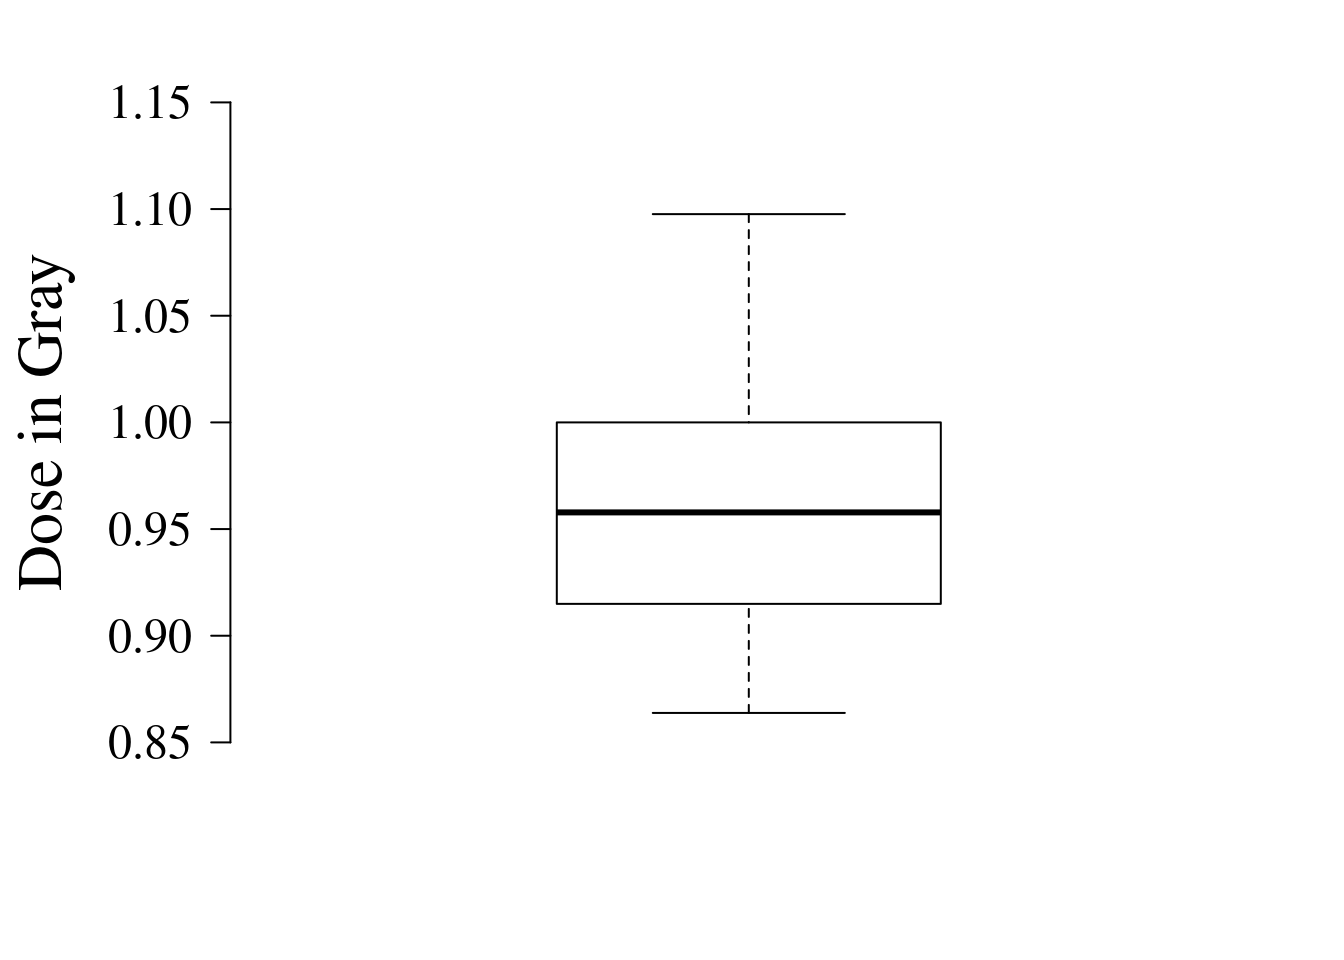
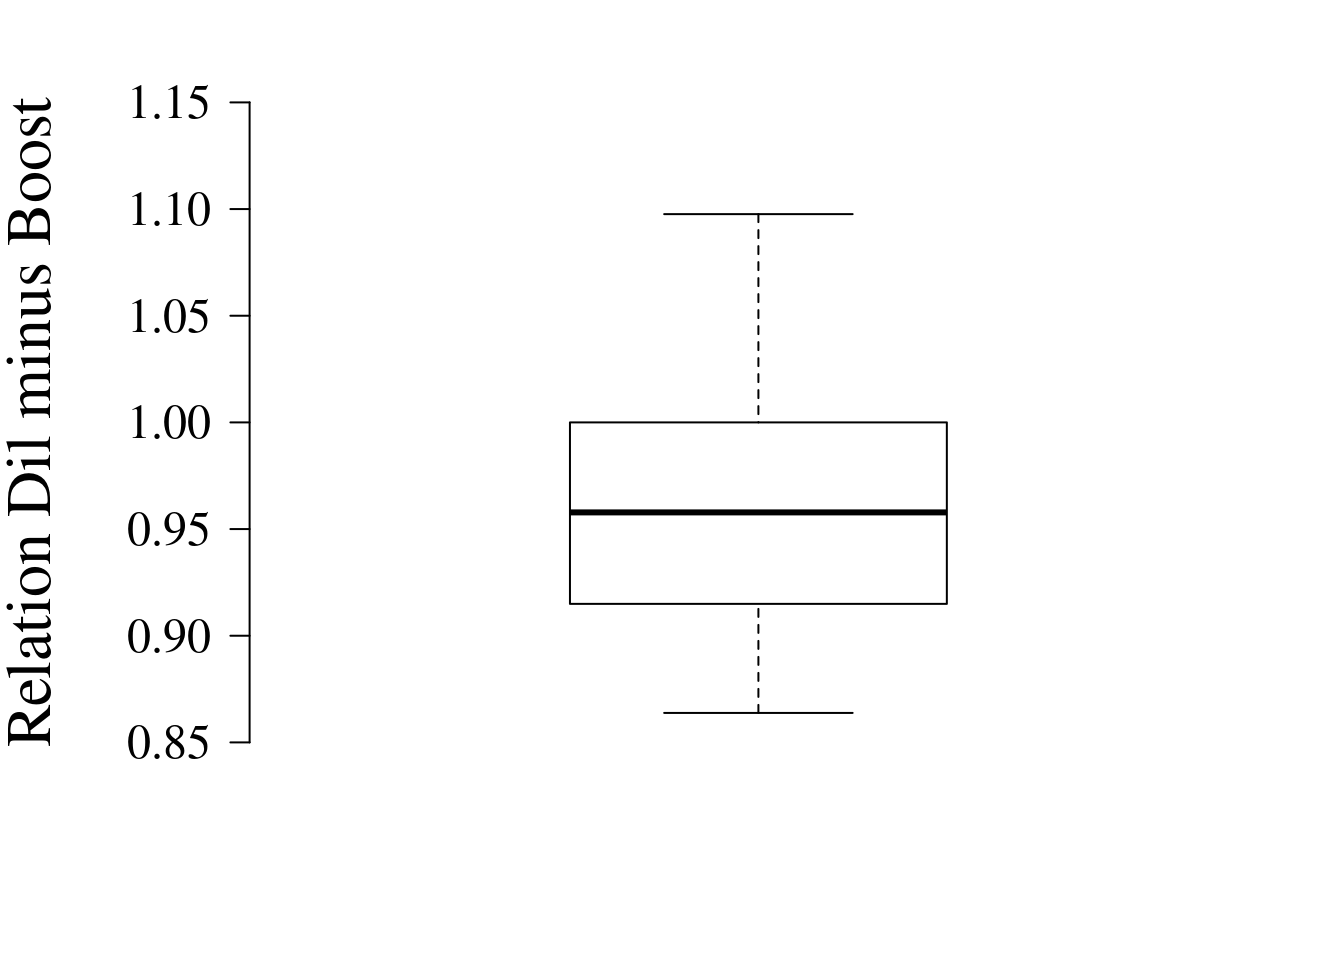
Build site.

Changed region(s): [[0.0, 0.0625, 0.1875, 0.8125], [0.6875, 0.4375, 0.7188, 0.625], [0.4062, 0.4375, 0.4375, 0.625]]

diff --git a/docs/DILminusBoost.html b/docs/DILminusBoost.html
@@ -517,16 +517,16 @@ This reproducible <a href="http://rmarkdown.rstudio.com">R Markdown</a> analysis
 <div class="panel panel-default">
 <div class="panel-heading">
 <p class="panel-title">
-<a data-toggle="collapse" data-parent="#workflowr-checks" href="#strongRepositoryversionstrongahrefhttpsgithubcomdssrttnTesttree0936524a4ae21b00a030d1471027996c2acf8399targetblank0936524a"> <span class="glyphicon glyphicon-ok text-success" aria-hidden="true"></span> <strong>Repository version:</strong> <a href="https://github.com/dssrttn/Test/tree/0936524a4ae21b00a030d1471027996c2acf8399" target="_blank">0936524</a> </a>
+<a data-toggle="collapse" data-parent="#workflowr-checks" href="#strongRepositoryversionstrongahrefhttpsgithubcomdssrttnTesttreee5ae7ce3b6cbb8fd5ed41ba4edf52a2210cef7fctargetblanke5ae7cea"> <span class="glyphicon glyphicon-ok text-success" aria-hidden="true"></span> <strong>Repository version:</strong> <a href="https://github.com/dssrttn/Test/tree/e5ae7ce3b6cbb8fd5ed41ba4edf52a2210cef7fc" target="_blank">e5ae7ce</a> </a>
 </p>
 </div>
[2 lines of base64/hex data omitted]
 <div class="panel-body">
 <p>
 Great! You are using Git for version control. Tracking code development and connecting the code version to the results is critical for reproducibility.
 </p>
 <p>
-The results in this page were generated with repository version <a href="https://github.com/dssrttn/Test/tree/0936524a4ae21b00a030d1471027996c2acf8399" target="_blank">0936524</a>. See the <em>Past versions</em> tab to see a history of the changes made to the R Markdown and HTML files.
+The results in this page were generated with repository version <a href="https://github.com/dssrttn/Test/tree/e5ae7ce3b6cbb8fd5ed41ba4edf52a2210cef7fc" target="_blank">e5ae7ce</a>. See the <em>Past versions</em> tab to see a history of the changes made to the R Markdown and HTML files.
 </p>
 <p>
 Note that you need to be careful to ensure that all relevant files for the analysis have been committed to Git prior to generating the results (you can use <code>wflow_publish</code> or <code>wflow_git_commit</code>). workflowr only checks the R Markdown file, but you know if there are other scripts or data files that it depends on. Below is the status of the Git repository when the results were generated:
@@ -554,6 +554,7 @@ Untracked files:
 
 Unstaged changes:
     Modified:   _workflowr.yml
+    Modified:   analysis/DILdurchBoost.Rmd
     Modified:   analysis/first-analysis.Rmd
     Modified:   analysis/relativ.Rmd
 
@@ -594,6 +595,40 @@ Message
 </tr>
 </thead>
 <tbody>
+<tr>
+<td>
+Rmd
+</td>
+<td>
+<a href="https://github.com/dssrttn/Test/blob/e5ae7ce3b6cbb8fd5ed41ba4edf52a2210cef7fc/analysis/DILminusBoost.Rmd" target="_blank">e5ae7ce</a>
+</td>
+<td>
+Mein Vorname
+</td>
+<td>
+2020-07-10
+</td>
+<td>
+VErbesserungen boxplot
+</td>
+</tr>
+<tr>
+<td>
+html
+</td>
+<td>
+<a href="https://rawcdn.githack.com/dssrttn/Test/69683214950ec0f98eadaf0b5319414d5cc55fdb/docs/DILminusBoost.html" target="_blank">6968321</a>
+</td>
+<td>
+Mein Vorname
+</td>
+<td>
+2020-07-10
+</td>
+<td>
+Build site.
+</td>
+</tr>
 <tr>
 <td>
 Rmd
@@ -742,10 +777,10 @@ min &lt;-min(DIL_mean_rel_table$dilminusboost)
 
 par(bty=&quot;n&quot;) # keinen Rahmen
 par(family=&quot;serif&quot;) # Schriftart
-par(mar = c(5, 6, 2, 2)) # Abstände um den Plot. 2. Position y-Achse
-par(mgp=c(4.2,1,0)) # mpg: Abstand Label zu Achse
+par(mar = c(5, 6.5, 2, 2)) # Abstände um den Plot. 2. Position y-Achse
+par(mgp=c(5,1,0)) # mpg: Abstand Label zu Achse
 boxplot(DIL_mean_rel_table$dilminusboost, 
-        ylab= &quot;Dose in Gray&quot;, #y-Achse-Beschriftung  
+        ylab= &quot;Relation Dil minus Boost&quot;, #y-Achse-Beschriftung  
         #yaxt=&quot;n&quot;, #suppresses y-axis. Brauch ich das? 
         col=&quot;transparent&quot;, #Farbe des Boxplots
         las = 2, # horizontale Markierung der Tick-Beschriftungen
@@ -758,6 +793,43 @@ boxplot(DIL_mean_rel_table$dilminusboost,
       #labels = FALSE
         )</code></pre>
 <p><img src="figure/DILminusBoost.Rmd/DIL%20Boxplot-1.png" width="672" style="display: block; margin: auto;" /></p>
+<p>
+<button type="button" class="btn btn-default btn-xs btn-workflowr btn-workflowr-fig" data-toggle="collapse" data-target="#fig-no-spaces-DIL-Boxplot-1">
+Past versions of “DIL Boxplot-1.png”
+</button>
+</p>
+<div id="fig-no-spaces-DIL-Boxplot-1" class="collapse">
+<div class="table-responsive">
+<table class="table table-condensed table-hover">
+<thead>
+<tr>
+<th>
+Version
+</th>
+<th>
+Author
+</th>
+<th>
+Date
+</th>
+</tr>
+</thead>
+<tbody>
+<tr>
+<td>
+<a href="https://github.com/dssrttn/Test/blob/69683214950ec0f98eadaf0b5319414d5cc55fdb/docs/figure/DILminusBoost.Rmd/DIL Boxplot-1.png" target="_blank">6968321</a>
+</td>
+<td>
+Mein Vorname
+</td>
+<td>
+2020-07-10
+</td>
+</tr>
+</tbody>
+</table>
+</div>
+</div>
 <pre class="r"><code>DIL_mean_rel_table %&gt;%
   kable(align = c(&quot;ccccccccc&quot;), escape = FALSE, format =&#39;html&#39;, caption = &quot;DIL durch Boost[1&quot;) %&gt;%
 kable_styling(bootstrap_options = c(&quot;striped&quot;, &quot;hover&quot;, &quot;condensed&quot;), 
